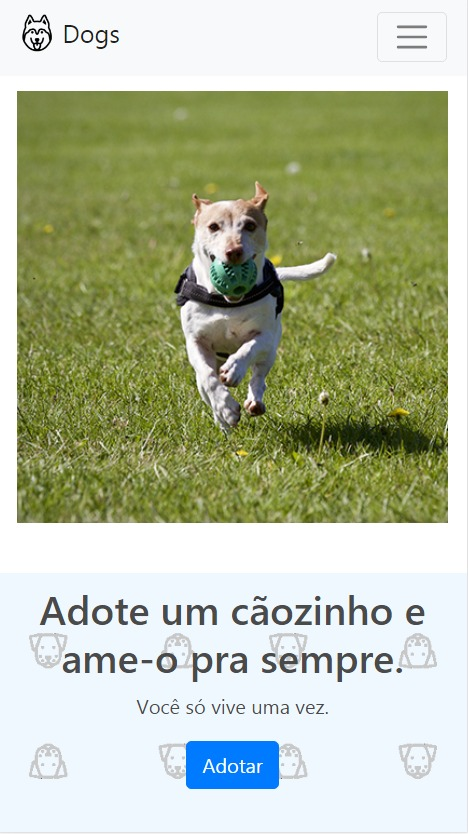
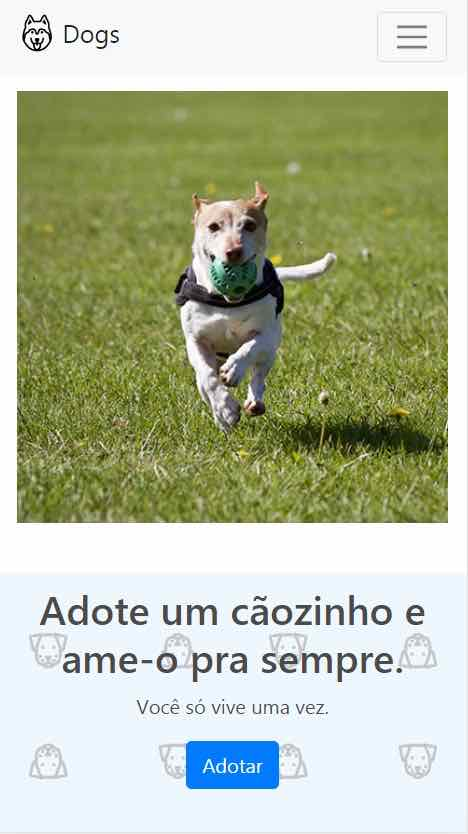
Decresase inclination on mobile

diff --git a/css/creative.css b/css/creative.css
@@ -37,7 +37,7 @@ a:hover {
 }
 
 #about {
-  -webkit-clip-path: polygon(0 5%, 100% 0, 100% 100%, 0 95%);
+  -webkit-clip-path: polygon(0 2%, 100% 0, 100% 100%, 0 98%);
 }
 
 #about .description {
@@ -533,14 +533,12 @@ input[type=submit]:hover {
 #team img {
   border-radius: 50%;
   max-width: 150px;
-  /*box-shadow: 2px 2px 30px;*/
-  /*border: 2px solid black;*/
 }
 
 #journey {
   background-color: #0097A7;
   color: #fff;
-  -webkit-clip-path: polygon(0 2%, 100% 0, 100% 100%, 0 98%);
+  -webkit-clip-path: polygon(0 1%, 100% 0, 100% 100%, 0 99%);
   padding: 8rem 0;
 }
 
@@ -559,6 +557,12 @@ input[type=submit]:hover {
 
 #journey p {
   font-size: 12pt;
+}
+
+@media (min-width: 992px) {
+  #journey {
+    -webkit-clip-path: polygon(0 7%, 100% 0, 100% 100%, 0 93%);
+  }
 }
 
 #admissions a {
@@ -613,7 +617,6 @@ input[type=submit]:hover {
     font-size: 14pt;
 }
 
-
 .accordion svg {
   -webkit-transform: rotate(180deg);
   -ms-transform: rotate(180deg);
@@ -630,12 +633,10 @@ input[type=submit]:hover {
   outline: none;
 }
 
-/* Add a background color to the button if it is clicked on (add the .active class with JS), and when you move the mouse over it (hover) */
 .accordion:hover {
     color: #fc5b63;
 }
 
-/* Style the accordion panel. Note: hidden by default */
 .panel {
     color: #333;
     padding: 0 18px;
@@ -723,7 +724,6 @@ body.modal-open > .wrap {
 
 #helper-space {
   min-width: 1px;
-  /*height: 10px;*/
   display: inline-block;
 }
 

diff --git a/index.html b/index.html
@@ -29,7 +29,7 @@
     <link href="vendor/magnific-popup/magnific-popup.css" rel="stylesheet">
 
     <!-- Custom styles for this template -->
-    <link href="css/creative.min.css" rel="stylesheet">
+    <link href="css/creative.css" rel="stylesheet">
 
     <link rel="icon" type="image/x-icon"" href="icon.ico">
   </head>
